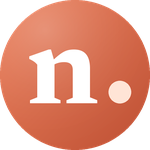
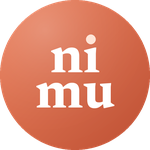
nimustudio simgesi: "n." yerine iki satır serif "ni/mu" (i noktası krem); kapak, profil, filigran yenilendi
Claude-Session: https://claude.ai/code/session_01DHpTQJ2GvvbTb2SL4nd3xL

Changed region(s): [[0.1867, 0.2133, 0.88, 0.7467]]

diff --git a/scripts/nimu_youtube.py b/scripts/nimu_youtube.py
@@ -58,7 +58,7 @@ def parilti(w: int, h: int, merkez, yaricap: float, renk, guc: float) -> Image.I
 
 
 def monogram(boyut: int, sekil: str = "kare") -> Image.Image:
-    """Turuncu zemin + serif "n" + krem nokta. sekil: kare (yuvarlak köşe) | daire. RGBA."""
+    """Turuncu zemin + serif "ni/mu" (i noktası krem). sekil: kare (yuvarlak köşe) | daire. RGBA."""
     s = boyut * 4  # süper örnekleme
     zemin = degrade(s, s, (236, 128, 92), TURUNCU_KOYU, 135).convert("RGBA")
     # üstte hafif ışık
@@ -70,18 +70,17 @@ def monogram(boyut: int, sekil: str = "kare") -> Image.Image:
     else:
         md.rounded_rectangle([0, 0, s - 1, s - 1], radius=int(s * 0.24), fill=255)
     d = ImageDraw.Draw(zemin)
-    f = font("serif", "700Bold", int(s * 0.78))
-    # "n"yi görsel merkeze al (x-yüksekliği için biraz yukarıda değil, tam ortada)
-    kutu = d.textbbox((0, 0), "n", font=f)
-    gw, gh = kutu[2] - kutu[0], kutu[3] - kutu[1]
-    nokta = s * 0.075
-    x = (s - gw - nokta * 2.2) / 2 - kutu[0]
-    y = (s - gh) / 2 - kutu[1] + s * 0.01
-    d.text((x, y), "n", font=f, fill=(255, 255, 255))
-    # nokta: "n."nin taban çizgisinde
-    nx = x + kutu[2] + nokta * 0.9
-    ny = y + kutu[3] - nokta * 2
-    d.ellipse([nx, ny, nx + nokta * 2, ny + nokta * 2], fill=(255, 228, 214))
+    # "ni" / "mu" iki satır serif; i'nin noktası krem (markanın imzası)
+    f = font("serif", "700Bold", int(s * 0.36))
+    satir_ara = s * 0.235
+    for j, (a, b) in enumerate((("n", "ı"), ("m", "u"))):
+        x = (s - d.textlength(a + b, font=f)) / 2
+        y = s * 0.5 - satir_ara * 0.5 + j * satir_ara + s * 0.10
+        d.text((x, y), a + b, font=f, fill=(255, 255, 255), anchor="ls")
+        if b == "ı":
+            kut = d.textbbox((x + d.textlength(a, font=f), y), "ı", font=f, anchor="ls")
+            ix, iy, nr = (kut[0] + kut[2]) / 2 - s * 0.004, kut[1] - s * 0.055, s * 0.032
+            d.ellipse([ix - nr, iy - nr, ix + nr, iy + nr], fill=(255, 228, 214))
     zemin.putalpha(maske)
     return zemin.resize((boyut, boyut), Image.LANCZOS)
 
